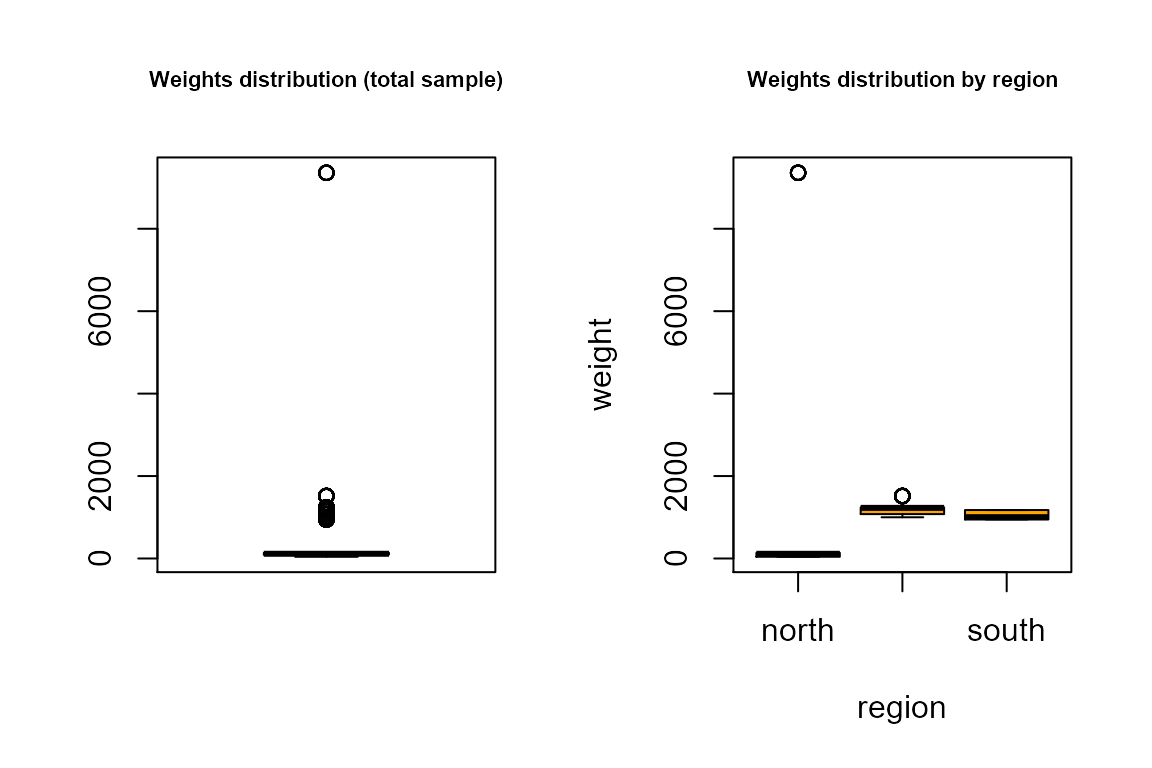
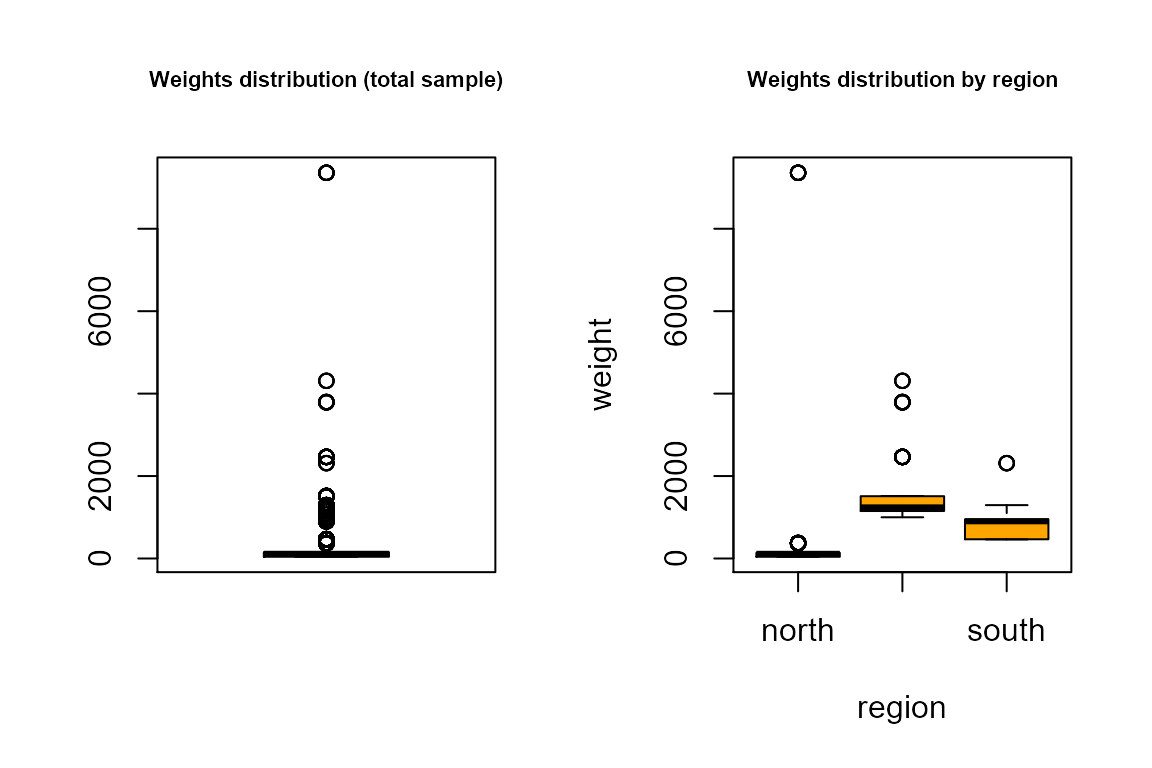
site

diff --git a/docs/articles/R2BEAT_workflow.html b/docs/articles/R2BEAT_workflow.html
@@ -579,7 +579,7 @@
 <a href="#selection-of-ssus" class="anchor"></a>Selection of SSUs</h1>
 <p>Finally, we are able to select the Secondary Sample Units (the individuals) from the already selected PSUs (the municipalities). First, we load the population frame:</p>
 <div class="sourceCode" id="cb56"><pre class="downlit">
-<span class="fu"><a href="https://rdrr.io/r/base/load.html">load</a></span>(<span class="st">"Frame_reduced.RData"</span>)
+<span class="fu"><a href="https://rdrr.io/r/base/load.html">load</a></span>(<span class="st">"Frame.RData"</span>)
 </pre></div>
 <p>and we proceed to select the sample in this way:</p>
 <div class="sourceCode" id="cb57"><pre class="downlit">
@@ -593,7 +593,7 @@
 <div class="sourceCode" id="cb58"><pre class="downlit">
 <span class="fu"><a href="https://rdrr.io/r/base/nrow.html">nrow</a></span>(<span class="kw">samp</span>)
 </pre></div>
-<pre><code>## [1] 6285</code></pre>
+<pre><code>## [1] 9460</code></pre>
 <div class="sourceCode" id="cb60"><pre class="downlit">
 <span class="fu"><a href="https://rdrr.io/r/base/sum.html">sum</a></span>(<span class="kw">allocat</span><span class="op">$</span><span class="kw">ALLOC</span>)
 </pre></div>
@@ -602,11 +602,11 @@
 <div class="sourceCode" id="cb62"><pre class="downlit">
 <span class="fu"><a href="https://rdrr.io/r/base/nrow.html">nrow</a></span>(<span class="kw">pop</span>)
 </pre></div>
-<pre><code>## [1] 1291454</code></pre>
+<pre><code>## [1] 2258507</code></pre>
 <div class="sourceCode" id="cb64"><pre class="downlit">
 <span class="fu"><a href="https://rdrr.io/r/base/sum.html">sum</a></span>(<span class="kw">samp</span><span class="op">$</span><span class="kw">we</span>)
 </pre></div>
-<pre><code>## [1] 1263880</code></pre>
+<pre><code>## [1] 2258507</code></pre>
 <p>This is the distribution of weights:</p>
 <div class="sourceCode" id="cb66"><pre class="downlit">
 <span class="fu"><a href="https://rdrr.io/r/graphics/par.html">par</a></span>(mfrow=<span class="fu"><a href="https://rdrr.io/r/base/c.html">c</a></span>(<span class="fl">1</span>, <span class="fl">2</span>))
